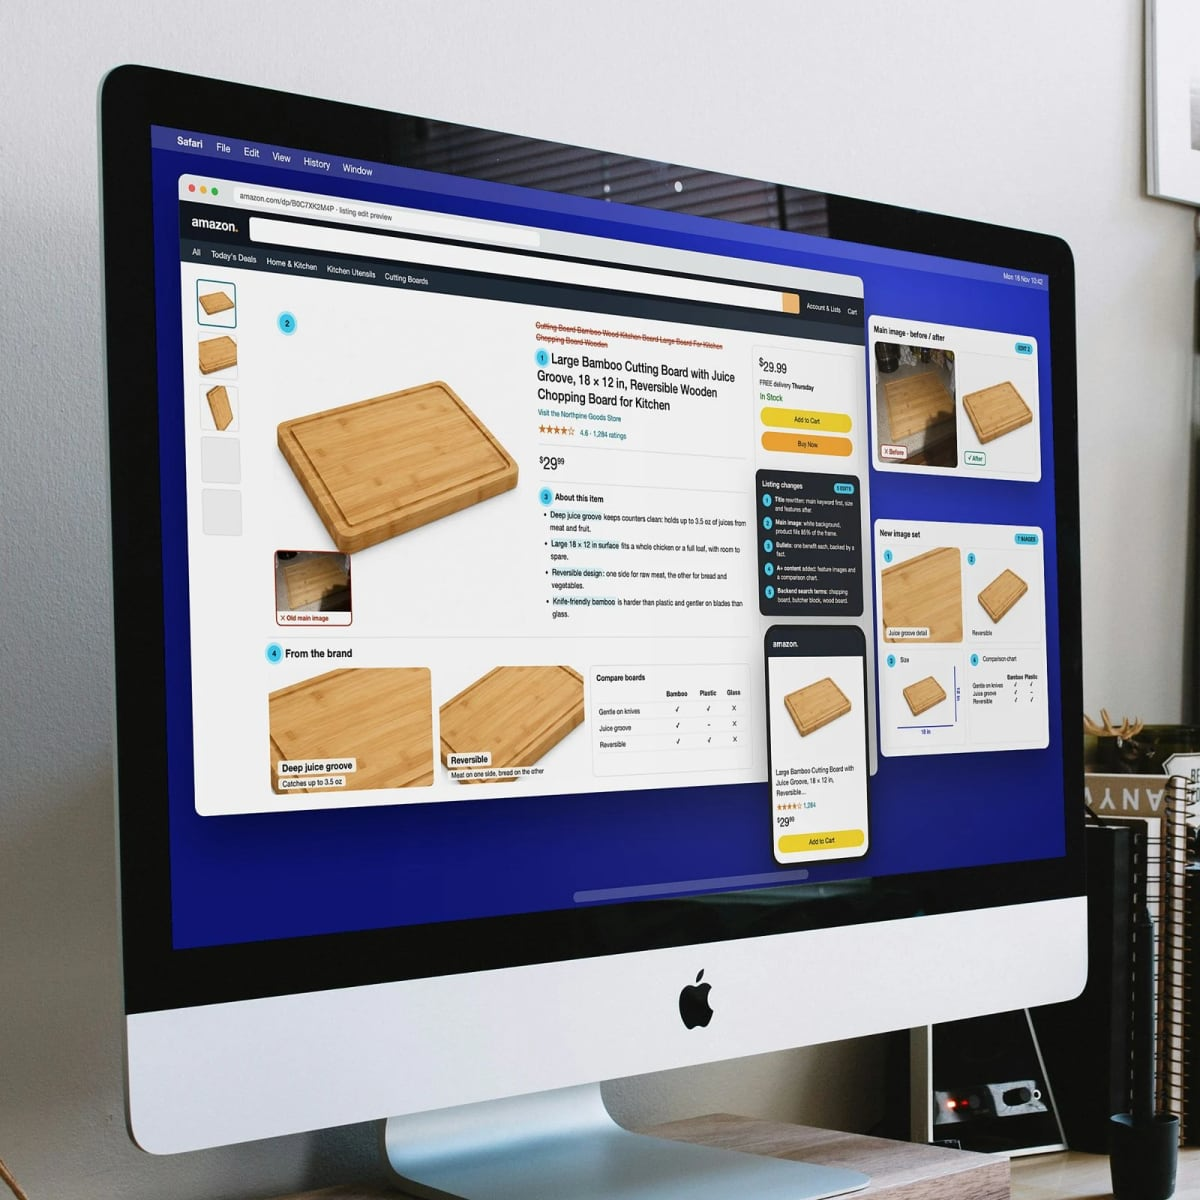
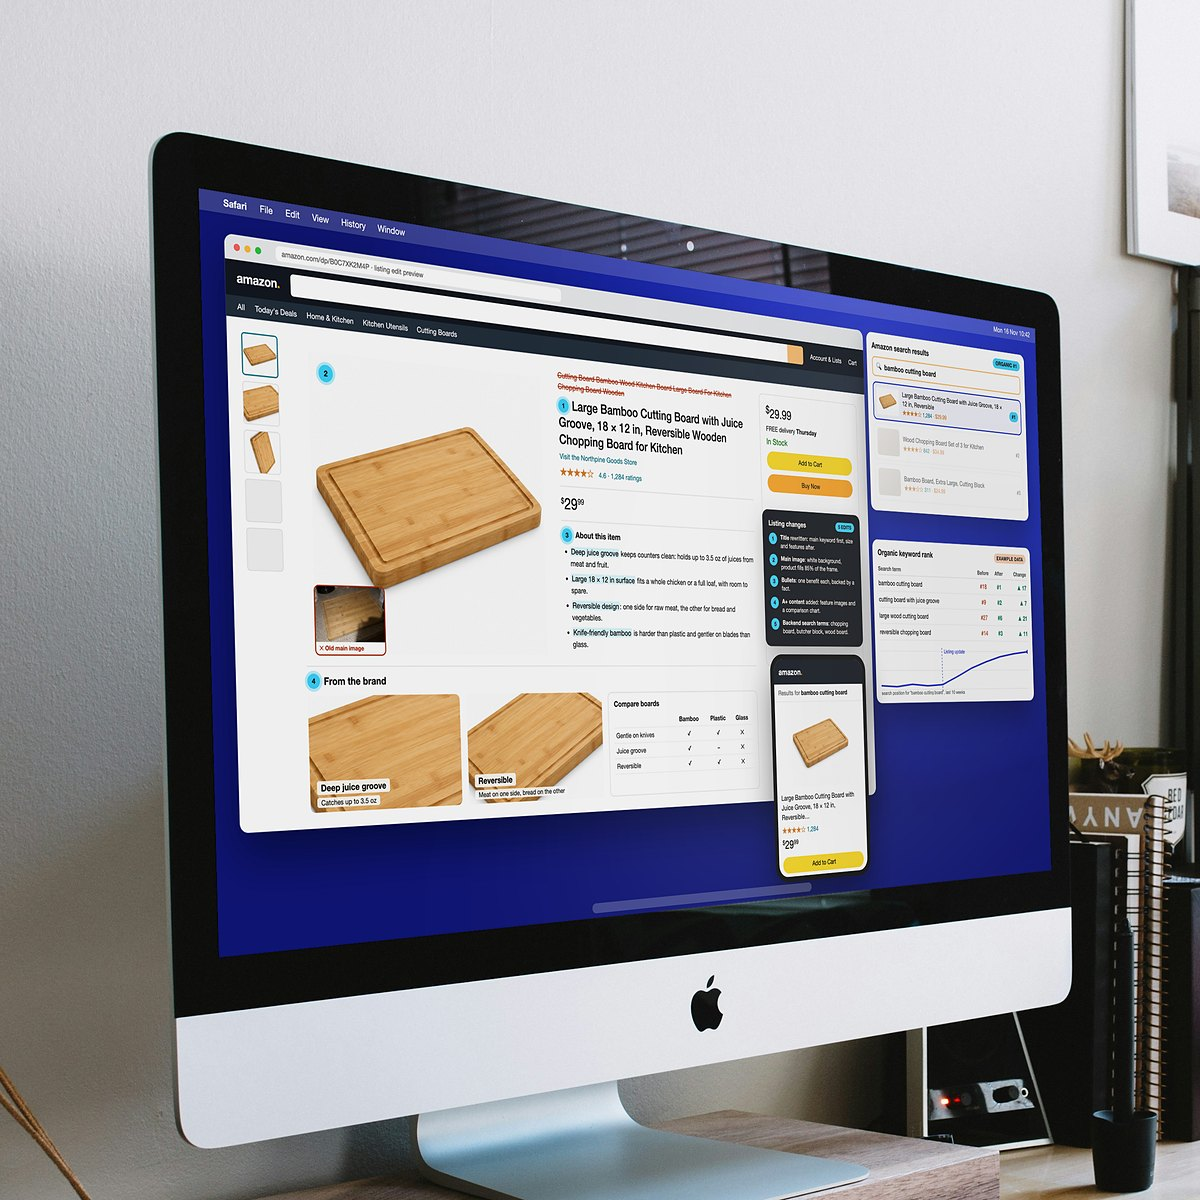
SEO and listing page: researched keywords and an SEO version of the listing image
- Keywords from OpenSEO (US, Google): "amazon seo services" (720/mo,
  commercial, KD 7, CPC $27.50) leads the title, H1 and description;
  "amazon listing optimisation" (260/mo) and "optimization" (210/mo)
  follow. "B2B SEO for Amazon sellers" had no measurable volume.
  Meta title 59 characters, description 159.
- New image, same 1200x1200 file: the optimised listing plus Amazon
  search results (our product #1 for "bamboo cutting board") and an
  organic keyword rank table labelled EXAMPLE DATA, on the same iMac.

diff --git a/src/content/guides/listing-optimization/en.tsx b/src/content/guides/listing-optimization/en.tsx
@@ -11,20 +11,20 @@ const A_PLUS = "https://sell.amazon.com/tools/a-content";
 const BOOST_LISTINGS = "https://sell.amazon.com/blog/how-to-boost-amazon-listings";
 const EXPERIMENTS = "https://sell.amazon.com/tools/manage-your-experiments";
 
-const title = "Amazon SEO and Listing Optimisation | Nautilo Studio";
+const title = "Amazon SEO Services & Listing Optimisation | Nautilo Studio";
 const description =
-  "Amazon SEO and listing optimisation for US sellers: we get your product found for the right searches, then chosen by shoppers. Get a free listing review today.";
+  "Amazon SEO services and listing optimisation for US sellers: get found for the searches your buyers type, then chosen over the rest. Get a free listing review.";
 
 const page: GuideCopy["page"] = {
   slug: "listing-optimization",
   breadcrumb: "SEO and listing optimisation",
-  question: "Amazon SEO and listing optimisation: get found, then get chosen",
+  question: "Amazon SEO services and listing optimisation: get found, then get chosen",
   answer:
     "Amazon SEO gets your product shown when shoppers search. Listing optimisation makes them pick it once they see it. On Amazon both happen on the same page: the title, bullets, images, A+ content and backend search terms decide where you rank and whether shoppers buy. Put the words buyers type where Amazon reads them, make the listing convincing, then test one change at a time. The sales a better listing brings also help it rank.",
   description,
   image: {
     src: "/img/amazon-listing-optimization.jpg",
-    alt: "iMac showing an Amazon product page for a bamboo cutting board, with the edited title, main image, bullets and A+ content marked",
+    alt: "iMac showing an optimised Amazon listing for a bamboo cutting board, next to Amazon search results where it ranks first and a table of organic keyword ranks",
     tile: "bg-apricot",
   },
   updated: "2026-11-20",
@@ -159,13 +159,13 @@ const page: GuideCopy["page"] = {
     },
     {
       id: "seo-listing-service",
-      heading: "What our SEO and listing optimisation service does",
+      heading: "What our Amazon SEO services and listing optimisation include",
       figure: {
         src: "/img/amazon-listing-optimization.jpg",
-        alt: "iMac showing an Amazon listing with five marked edits to the title, main image, bullets, A+ content and search terms",
+        alt: "iMac showing an Amazon listing with five marked edits, the search results for bamboo cutting board and the keyword ranks before and after the update",
         width: 1200,
         height: 1200,
-        caption: "Example listing with our changes marked on the page. Illustration, not a client listing.",
+        caption: "Example listing with our changes marked, its search results and keyword ranks. Illustration with example data, not a client listing.",
       },
       body: (
         <>
